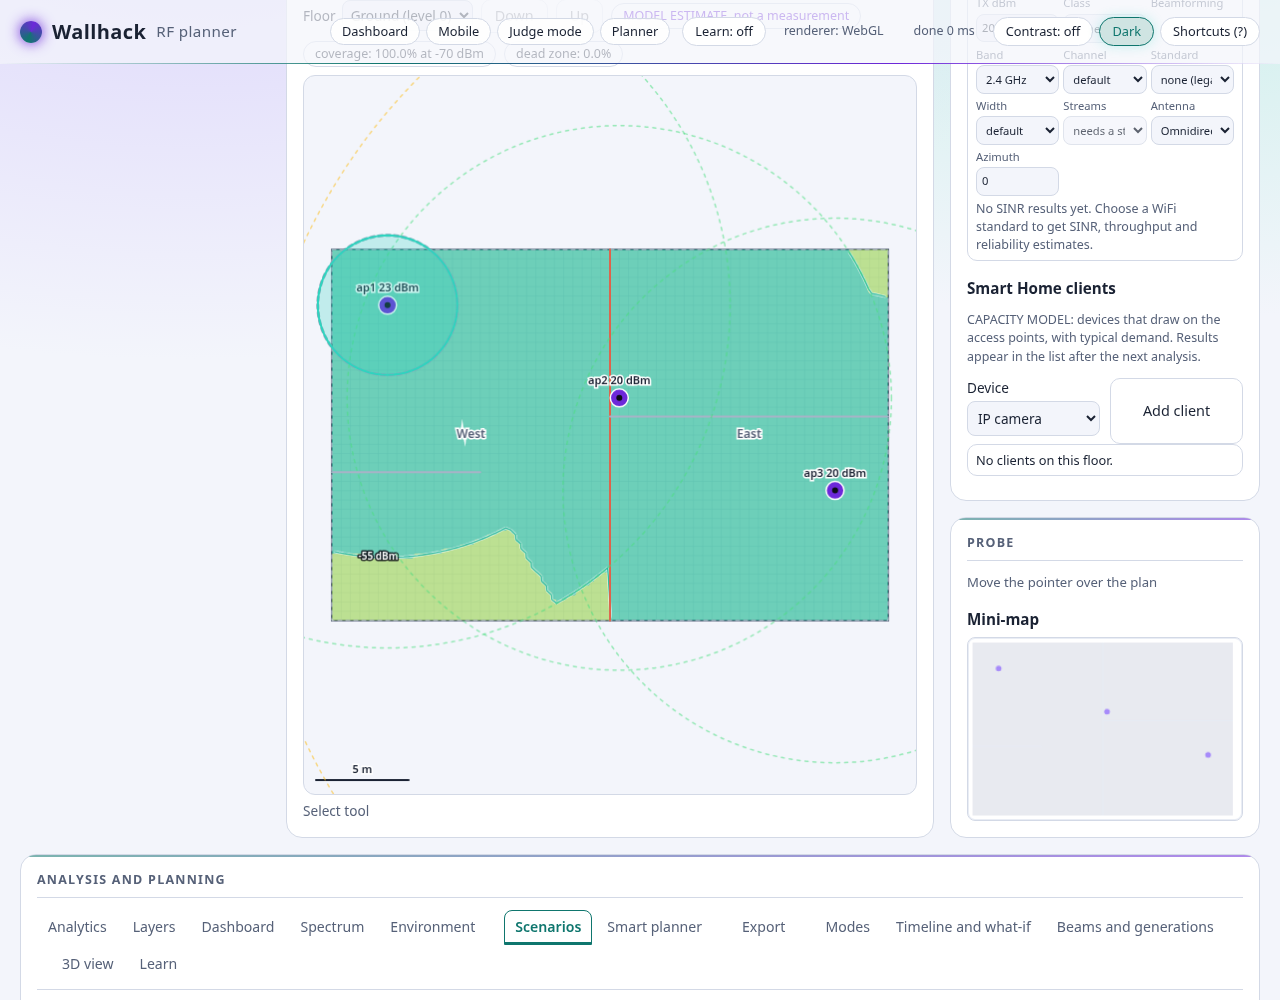
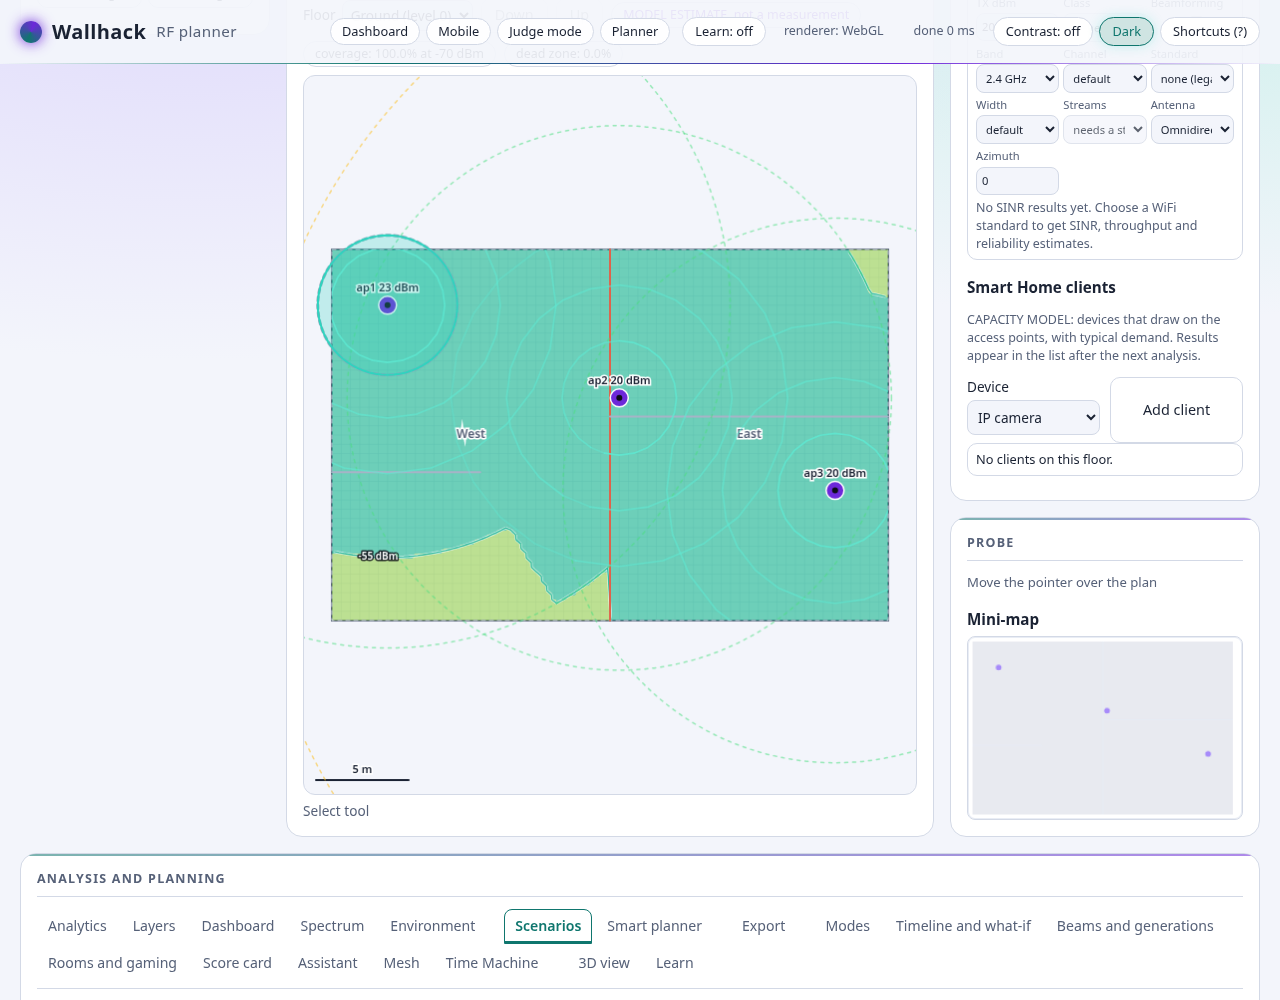
feat: architect perf benchmark, architect screenshots and a more opaque sticky header

diff --git a/tools/perf_architect.js b/tools/perf_architect.js
@@ -1,0 +1,90 @@
+#!/usr/bin/env node
+"use strict";
+// Node timings of the Wi-Fi architect features (rf-insight.js) and the path counts of one planner update.
+// Usage: node tools/perf_architect.js [--repeat N]. One thread, not a Raspberry Pi 4 figure. Median, min and max of N runs after one warm-up.
+// "Ray" in this file means one source-to-cell path evaluation: one call of the direct (basic), image-method reflected or diffracted
+// path function for one access point and one grid cell. The counts come from an instrumented copy of rf-engine.js (counters inserted
+// by text replacement at load time, the file on disk is untouched), so they are exact for the mode and grid used.
+const fs = require("fs"), path = require("path"), os = require("os"), vm = require("vm");
+const STATIC = path.join(__dirname, "..", "wallhack", "static");
+const RF = require(path.join(STATIC, "rf-engine.js")), Opt = require(path.join(STATIC, "rf-optimizer.js")), Ins = require(path.join(STATIC, "rf-insight.js"));
+const Perf = require("./perf_rf_lib.js");
+const config = JSON.parse(fs.readFileSync(path.join(STATIC, "rf-config.json"), "utf8"));
+const scenarios = JSON.parse(fs.readFileSync(path.join(STATIC, "scenarios.json"), "utf8")).scenarios;
+const args = process.argv.slice(2), repeat = args.indexOf("--repeat") >= 0 ? parseInt(args[args.indexOf("--repeat") + 1], 10) : 5;
+const now = () => Number(process.hrtime.bigint()) / 1e6;
+const env = RF.makeEnv(config);
+const preset = (id) => JSON.parse(JSON.stringify(scenarios.find((s) => s.id === id).project));
+
+function time(fn) {
+  fn();
+  const t = [];
+  for (let i = 0; i < repeat; i++) { const s = now(); fn(); t.push(now() - s); }
+  t.sort((a, b) => a - b);
+  return [t[Math.floor(t.length / 2)], t[0], t[t.length - 1]].map((v) => Math.round(v * 10) / 10);
+}
+const rows = [];
+function add(name, fn, note) { const [m, lo, hi] = time(fn); rows.push([name, m, lo, hi, note || ""]); }
+
+// ---- timings on presets
+const SIM = [["small_apartment", 0.5], ["large_home", 0.5], ["hotel_floor", 0.5]];
+SIM.forEach(([id, cell]) => {
+  const p = preset(id), fl = p.floors[0], ap = fl.aps[0], o = { env, config, cellM: cell };
+  const cells = Math.ceil(fl.width_m / cell) * Math.ceil(fl.depth_m / cell);
+  add("simulate after an AP move (analyze), " + id + ", " + cell + " m cells", () => {
+    const q = JSON.parse(JSON.stringify(p)); q.floors[0].aps[0].x += 1; Ins.analyze(q, fl.id, o);
+  }, cells + " cells, " + fl.aps.length + " AP");
+  add("roomStats, " + id, () => { Ins.roomStats(p, fl.id, null, o); });
+  add("gamerMode, " + id, () => { Ins.gamerMode(p, fl.id, o); });
+  add("scoreCard, " + id, () => { Ins.scoreCard(p, fl.id, o); });
+  add("diagnose, " + id, () => { Ins.diagnose(p, fl.id, "Why is my " + fl.rooms[0].name.toLowerCase() + " WiFi slow?", o); }, "includes a second engine run per tested fix");
+  add("placementReport, " + id, () => { Ins.placementReport(p, fl.id, Object.assign({ apId: ap.id }, o)); }, "searches the optimizer candidate lattice");
+  add("meshTopologies, " + id, () => { Ins.meshTopologies(p, fl.id, o); }, "single, dual and whole-home");
+  add("timeMachine, " + id + ", 3 versions", () => { Ins.timeMachine(Ins.presetItems(p, fl.id, o).slice(0, 3).concat([]), Object.assign({ floorId: fl.id }, o)); }, "preset items built inside the timed call");
+});
+const stress = Perf.stressProject(7, 4);
+add("simulate after an AP move (analyze), stress floor 4 AP 1000 walls, 0.5 m", () => {
+  const q = JSON.parse(JSON.stringify(stress)); q.floors[0].aps[0].x += 1; Ins.analyze(q, "f1", { env, config, cellM: 0.5 });
+}, "24,000 cells");
+add("what-if move one AP (optimizer), stress floor 4 AP", () => { Opt.whatIf(stress, "f1", { kind: "move_ap", ap_id: "ap1", x: 20, y: 20 }, { env, config }); }, "known miss against 100 ms");
+
+// ---- path counts from an instrumented copy of the engine
+function instrumented() {
+  let src = fs.readFileSync(path.join(STATIC, "rf-engine.js"), "utf8");
+  const counters = { direct: 0, reflected: 0, reflected_hit: 0, diffracted: 0 };
+  const patch = (name) => {
+    const sig = "function " + name + "(";
+    if (src.indexOf(sig) < 0) { throw new Error("rf-engine.js has no " + name + ", update tools/perf_architect.js"); }
+    src = src.replace(sig, "function __orig_" + name + "(");
+  };
+  // Rename the originals and add counting wrappers in the same closure by editing before the registerMode lines.
+  ["basicDbm", "reflectedDbm", "diffractedDbm"].forEach((n) => patch(n));
+  const wrappers = "function basicDbm(c, x, y) { __C.direct++; return __orig_basicDbm(c, x, y); }\n" +
+    "function reflectedDbm(c, w, x, y) { __C.reflected++; var v = __orig_reflectedDbm(c, w, x, y); if (v !== null) { __C.reflected_hit++; } return v; }\n" +
+    "function diffractedDbm(c, k, x, y) { __C.diffracted++; return __orig_diffractedDbm(c, k, x, y); }\n";
+  src = src.replace('registerMode("basic", basicDbm);', wrappers + 'registerMode("basic", basicDbm);');
+  const sandbox = { module: { exports: {} }, exports: {}, __C: counters, console, Math, Float32Array, Float64Array, Object, Array, Error, JSON };
+  sandbox.window = undefined; sandbox.self = undefined;
+  vm.runInNewContext(src, sandbox, { filename: "rf-engine-instrumented.js" });
+  return { E: sandbox.module.exports, counters };
+}
+const counts = [];
+function countCase(label, project, floorId, cell, mode) {
+  const inst = instrumented(), e = inst.E.makeEnv(config);
+  const t = now();
+  inst.E.analyzeFloorWithGrid(JSON.parse(JSON.stringify(project)), floorId, { env: e, cellM: cell, mode: mode });
+  const ms = now() - t, c = inst.counters, evals = c.direct + c.reflected + c.diffracted;
+  counts.push([label, mode, c.direct, c.reflected, c.reflected_hit, c.diffracted, evals, Math.round(ms * 10) / 10]);
+}
+SIM.forEach(([id, cell]) => { const p = preset(id); countCase(id + ", " + cell + " m", p, p.floors[0].id, cell, "basic"); });
+SIM.forEach(([id, cell]) => { const p = preset(id); countCase(id + ", " + cell + " m", p, p.floors[0].id, cell, "multipath"); });
+countCase("stress floor 4 AP, 0.5 m", stress, "f1", 0.5, "basic");
+// multipath at 0.5 m on this floor is 69.4 million evaluations and about 5 minutes, so it runs on a 2 m grid here.
+countCase("stress floor 4 AP, 2 m", stress, "f1", 2, "multipath");
+
+console.log("Wi-Fi architect, node " + process.version + ", " + os.cpus()[0].model + " x" + os.cpus().length + ", " + repeat + " runs after one warm-up\n");
+console.log("| Measurement | Median ms | Min | Max | Notes |\n|---|---|---|---|---|");
+rows.forEach((r) => console.log("| " + r.join(" | ") + " |"));
+console.log("\nPath evaluations of one engine run (one 'ray' = one direct, reflected or diffracted path function call for one AP and one cell)\n");
+console.log("| Case | Mode | Direct | Reflected tried | Reflected valid | Diffracted | Total path evaluations | Run ms (instrumented) |\n|---|---|---|---|---|---|---|---|");
+counts.forEach((r) => console.log("| " + r.join(" | ") + " |"));

diff --git a/wallhack/static/style.css b/wallhack/static/style.css
@@ -13,7 +13,7 @@ body { margin:0; min-height:100vh; color:var(--fg); font:0.9375rem/1.45 system-u
   background:radial-gradient(900px 480px at 15% -120px, var(--glow), transparent), radial-gradient(800px 420px at 90% -100px, var(--glow2), transparent), var(--bg); background-attachment:fixed; }
 html { scroll-padding-top:calc(var(--header-h) + var(--header-gap)); }
 .tabpanel, main > .card, main > section { scroll-margin-top:calc(var(--header-h) + var(--header-gap)); }
-header { min-height:var(--header-h); display:flex; justify-content:space-between; align-items:center; flex-wrap:wrap; gap:10px; padding:12px 20px; border-bottom:1px solid var(--line); backdrop-filter:blur(10px); position:sticky; top:0; z-index:4; background:rgba(8,11,18,.6); }
+header { min-height:var(--header-h); display:flex; justify-content:space-between; align-items:center; flex-wrap:wrap; gap:10px; padding:12px 20px; border-bottom:1px solid var(--line); backdrop-filter:blur(10px); position:sticky; top:0; z-index:4; background:rgba(8,11,18,.82); }
 h1 { margin:0; font-size:1.25rem; display:flex; align-items:center; gap:10px; letter-spacing:.02em; }
 .logo { width:22px; height:22px; border-radius:50%; background:conic-gradient(from 200deg, var(--accent), var(--accent2), var(--accent)); box-shadow:0 0 14px var(--accent2); }
 h2 { margin:0 0 10px; font-size:.78rem; text-transform:uppercase; letter-spacing:.1em; color:var(--muted); }
@@ -116,7 +116,7 @@ code { background:var(--idle-bg); padding:1px 5px; border-radius:5px; }
 
 :root[data-theme="light"] { color-scheme:light; --bg:#f3f5fb; --card:rgba(255,255,255,.85); --card-solid:#ffffff; --line:#d3d9e6; --fg:#1a2233; --muted:#566178; --ok:#15803d; --warn:#a16207; --bad:#be123c; --accent:#0f766e; --accent2:#6d28d9;
   --glow:#dcd5fb; --glow2:#c8efe9; --ok-bg:#dcfce7; --bad-bg:#ffe4e6; --idle-bg:#e9edf5; --warn-bg:#fef3c7; --warn-line:#d4a72c; --info-bg:#ccfbf1; --info-line:#2dd4bf; --shadow:0 6px 20px rgba(30,40,80,.1); }
-:root[data-theme="light"] header { background:rgba(243,245,251,.7); }
+:root[data-theme="light"] header { background:rgba(243,245,251,.92); }
 
 @media (max-width:700px) {
   :root { --header-h:52px; }

diff --git a/tools/screenshot.py b/tools/screenshot.py
@@ -10,6 +10,7 @@ Also captures the timeline, insights and game cards and the mobile companion and
 (docs/screenshot-<name>.png), loading each page and checking it renders.
 Also captures the RF planner (docs/screenshot-planner*.png: heat map with bands and contours, compare, analytics,
 light theme, phone width; the --demo run adds a -demo suffix) and fails if the planner heat canvas is blank.
+Also captures the Wi-Fi architect views (docs/screenshot-planner-quick|rooms|scorecard|assistant|mesh|timemachine|aurora.png).
 Exits non-zero on a JS error, a missing SIMULATED label, or a blank 3D canvas.
 """
 import argparse
@@ -179,6 +180,61 @@ def capture_planner(browser, base, errors, problems, docs, demo=False):
     mobile.close()
 
 
+def capture_architect(browser, base, errors, problems, docs, demo=False):
+    """Wi-Fi architect views: quick start result (viewport), Rooms and gaming, Score card, Assistant, Mesh, Time Machine and the aurora palette with signal waves."""
+    url = base + ("planner.html" if demo else "planner")
+    suffix = "-demo" if demo else ""
+    page = browser.new_page(viewport=DESKTOP)
+    watch(page, errors)
+    page.on("dialog", lambda d: d.accept())
+    page.goto(url)
+    planner_wait(page)
+    page.wait_for_function("() => window.PlannerApp.quick && window.PlannerApp.quick.templatesReady", timeout=15000)
+    page.select_option("#quickTemplate", "two_bedroom_condo")
+    page.click("#quickAnalyse")
+    page.wait_for_selector("#quickResult[data-ready=true]", timeout=60000)
+    page.evaluate(PLANNER_IDLE_JS)
+    page.wait_for_timeout(500)
+    if not page.locator("#quickResult .q-grade").count():
+        problems.append("quick start result has no grade")
+    page.evaluate("() => window.scrollTo(0, 0)")
+    page.wait_for_timeout(300)
+    page.screenshot(path=str(docs / ("screenshot-planner-quick%s.png" % suffix)))
+    planner_tab(page, "rooms")
+    if not page.locator("#panel-rooms .room-card").count():
+        problems.append("Rooms and gaming tab shows no room cards")
+    page.locator("#panel-rooms").screenshot(path=str(docs / ("screenshot-planner-rooms%s.png" % suffix)))
+    planner_tab(page, "scorecard")
+    page.locator("#panel-scorecard").screenshot(path=str(docs / ("screenshot-planner-scorecard%s.png" % suffix)))
+    planner_tab(page, "assistant")
+    page.fill("#asstInput", "Why is my bedroom 2 WiFi slow?")
+    page.click("#asstForm button[type=submit]")
+    page.wait_for_function("() => /WiFi in Bedroom 2/.test(document.getElementById('asstAnswer').innerText)", timeout=15000)
+    page.locator("#panel-assistant").screenshot(path=str(docs / ("screenshot-planner-assistant%s.png" % suffix)))
+    # the condo is fully covered, so a mesh node adds nothing there; the small office has a gap that a node closes
+    page.select_option("#quickTemplate", "small_office")
+    before = page.evaluate("() => document.getElementById('quickResult').dataset.ms")
+    page.click("#quickAnalyse")
+    page.wait_for_function("(b) => document.getElementById('quickResult').dataset.ready === 'true' && document.getElementById('quickResult').dataset.ms !== b", arg=before, timeout=60000)
+    page.evaluate(PLANNER_IDLE_JS)
+    planner_tab(page, "mesh")
+    page.click("#meshRun")
+    page.wait_for_selector("#panel-mesh table", timeout=60000)
+    page.locator("#panel-mesh").screenshot(path=str(docs / ("screenshot-planner-mesh%s.png" % suffix)))
+    planner_tab(page, "timemachine")
+    page.click("#tmRun")
+    page.wait_for_selector("#tmOut table", timeout=60000)
+    page.wait_for_timeout(500)
+    page.locator("#panel-timemachine").screenshot(path=str(docs / ("screenshot-planner-timemachine%s.png" % suffix)))
+    page.select_option("#paletteSel", "aurora")
+    page.check("#tgWaves")
+    page.evaluate(PLANNER_IDLE_JS)
+    page.wait_for_timeout(1200)
+    planner_check(page, "aurora palette", problems)
+    page.locator("#stage").screenshot(path=str(docs / ("screenshot-planner-aurora%s.png" % suffix)))
+    page.close()
+
+
 def watch(page, errors):
     page.on("pageerror", lambda e: errors.append(str(e)))
     page.on("console", lambda m: errors.append(m.text) if m.type == "error" else None)
@@ -246,6 +302,7 @@ def main_demo() -> int:
             capture_extras(browser, "http://127.0.0.1:%d/" % PORT, errors, problems, scratch,
                            {"mobile": "mobile.html", "judge": "judge.html"}, demo=True)
             capture_planner(browser, "http://127.0.0.1:%d/" % PORT, errors, problems, scratch, demo=True)
+            capture_architect(browser, "http://127.0.0.1:%d/" % PORT, errors, problems, scratch, demo=True)
             browser.close()
         for msg in errors + problems:
             print("FAIL:", msg, file=sys.stderr)
@@ -281,6 +338,7 @@ def main() -> int:
             mobile.close()
             capture_extras(browser, "http://127.0.0.1:%d/" % PORT, errors, problems, docs, {"mobile": "mobile", "judge": "judge"})
             capture_planner(browser, "http://127.0.0.1:%d/" % PORT, errors, problems, docs)
+            capture_architect(browser, "http://127.0.0.1:%d/" % PORT, errors, problems, docs)
             browser.close()
         for msg in errors + problems:
             print("FAIL:", msg, file=sys.stderr)

diff --git a/tools/perf_3d.py b/tools/perf_3d.py
@@ -29,6 +29,33 @@ JS = """async (frames) => {
   times.sort((x, y) => x - y); out.median_ms = times[Math.floor(times.length / 2)]; out.p95_ms = times[Math.floor(times.length * 0.95)];
   return out; }"""
 
+# Signal waves: requestAnimationFrame intervals with the waves on, per quality level (html[data-quality] from common.js), large_home preset.
+# The page cannot run faster than the 60 Hz display clock, so the interval median is about 16.7 ms when the draw cost is small; the draw
+# cost itself is the mean of the 20 draw times that planner-quick.js keeps for its own frame budget (read before they are cleared).
+WAVES_JS = """async (args) => {
+  const a = window.PlannerApp, lib = await (await fetch(a.assetUrl('scenarios.json'))).json();
+  a.loadProject(JSON.parse(JSON.stringify(lib.scenarios.find(s => s.id === 'large_home').project))); await a.whenIdle();
+  document.documentElement.dataset.quality = args.quality;
+  a.quick.setWaves(false);
+  await new Promise(r => setTimeout(r, 1500));   // the quality switch restarts CSS blur and the particle layer; let it settle
+  const sample = async () => {
+    const gaps = []; let last = performance.now();
+    for (let i = 0; i < args.frames; i++) { await new Promise(r => requestAnimationFrame(r)); const t = performance.now(); gaps.push(t - last); last = t; }
+    gaps.sort((x, y) => x - y); return gaps;
+  };
+  const off = await sample();
+  a.quick.setWaves(true);
+  const w = a.quick.waves, costs = [], gaps = []; let last = performance.now();
+  for (let i = 0; i < args.frames; i++) {
+    await new Promise(r => requestAnimationFrame(r));
+    const t = performance.now(); gaps.push(t - last); last = t;
+    if (w.cost.length) { costs.push(w.cost.reduce((x, y) => x + y, 0) / w.cost.length); }
+  }
+  a.quick.setWaves(false);
+  gaps.sort((x, y) => x - y); costs.sort((x, y) => x - y);
+  return {off_median_ms: off[Math.floor(off.length / 2)], frame_median_ms: gaps[Math.floor(gaps.length / 2)], frame_p95_ms: gaps[Math.floor(gaps.length * 0.95)],
+          draw_median_ms: costs.length ? costs[Math.floor(costs.length / 2)] : null, draw_max_ms: costs.length ? costs[costs.length - 1] : null}; }"""
+
 
 def main() -> int:
     ap = argparse.ArgumentParser(description=__doc__.split("\n")[0])
@@ -56,11 +83,23 @@ def main() -> int:
                 page.wait_for_function("window.PlannerApp && window.PlannerApp.ready", timeout=15000)
                 r = page.evaluate(JS, args.frames)
                 rows.append((label, r)); page.close()
+            wave_rows = []
+            for quality in ("low", "medium", "high"):
+                page = browser.new_page(viewport={"width": 1400, "height": 900})
+                page.goto("http://127.0.0.1:%d/planner" % PORT)
+                page.wait_for_function("window.PlannerApp && window.PlannerApp.ready", timeout=15000)
+                wave_rows.append((quality, page.evaluate(WAVES_JS, {"quality": quality, "frames": args.frames * 2})))
+                page.close()
             browser.close()
         print("| Renderer | Tab open (ms) | Median frame (ms) | p95 frame (ms) | Quads | Lines |\n|---|---|---|---|---|---|")
         for label, r in rows:
             print("| %s | %.0f | %.1f | %.1f | %d | %d |" % (label, r["open_ms"], r["median_ms"], r["p95_ms"], r["quads"], r["lines"]))
         print(json.dumps({l: r for l, r in rows}))
+        print("\n| Signal waves, quality | rAF interval, waves off (ms) | rAF interval median, waves on (ms) | rAF interval p95 (ms) | Draw cost median (ms) | Draw cost max (ms) |\n|---|---|---|---|---|---|")
+        for quality, r in wave_rows:
+            draw = "%.2f" % r["draw_median_ms"] if r["draw_median_ms"] is not None else "n/a"
+            top = "%.2f" % r["draw_max_ms"] if r["draw_max_ms"] is not None else "n/a"
+            print("| %s | %.1f | %.1f | %.1f | %s | %s |" % (quality, r["off_median_ms"], r["frame_median_ms"], r["frame_p95_ms"], draw, top))
     finally:
         server.terminate()
     return 0
